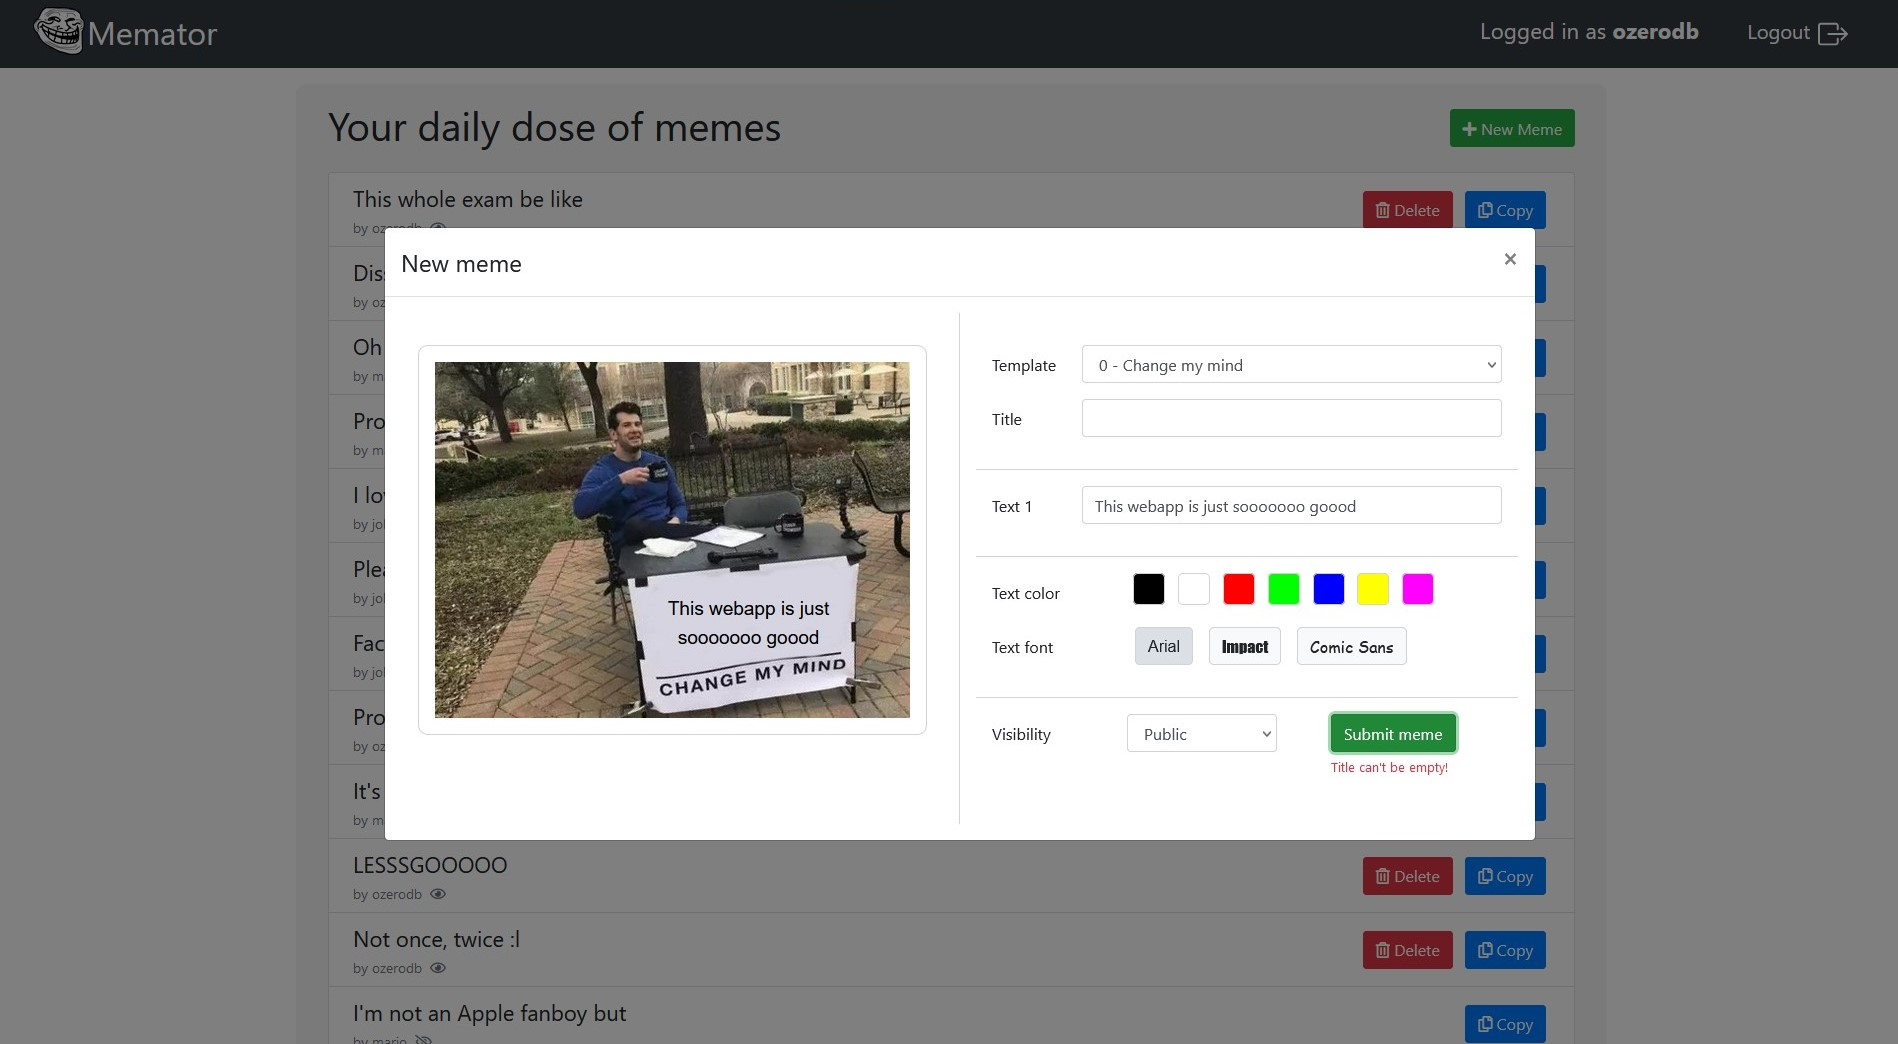
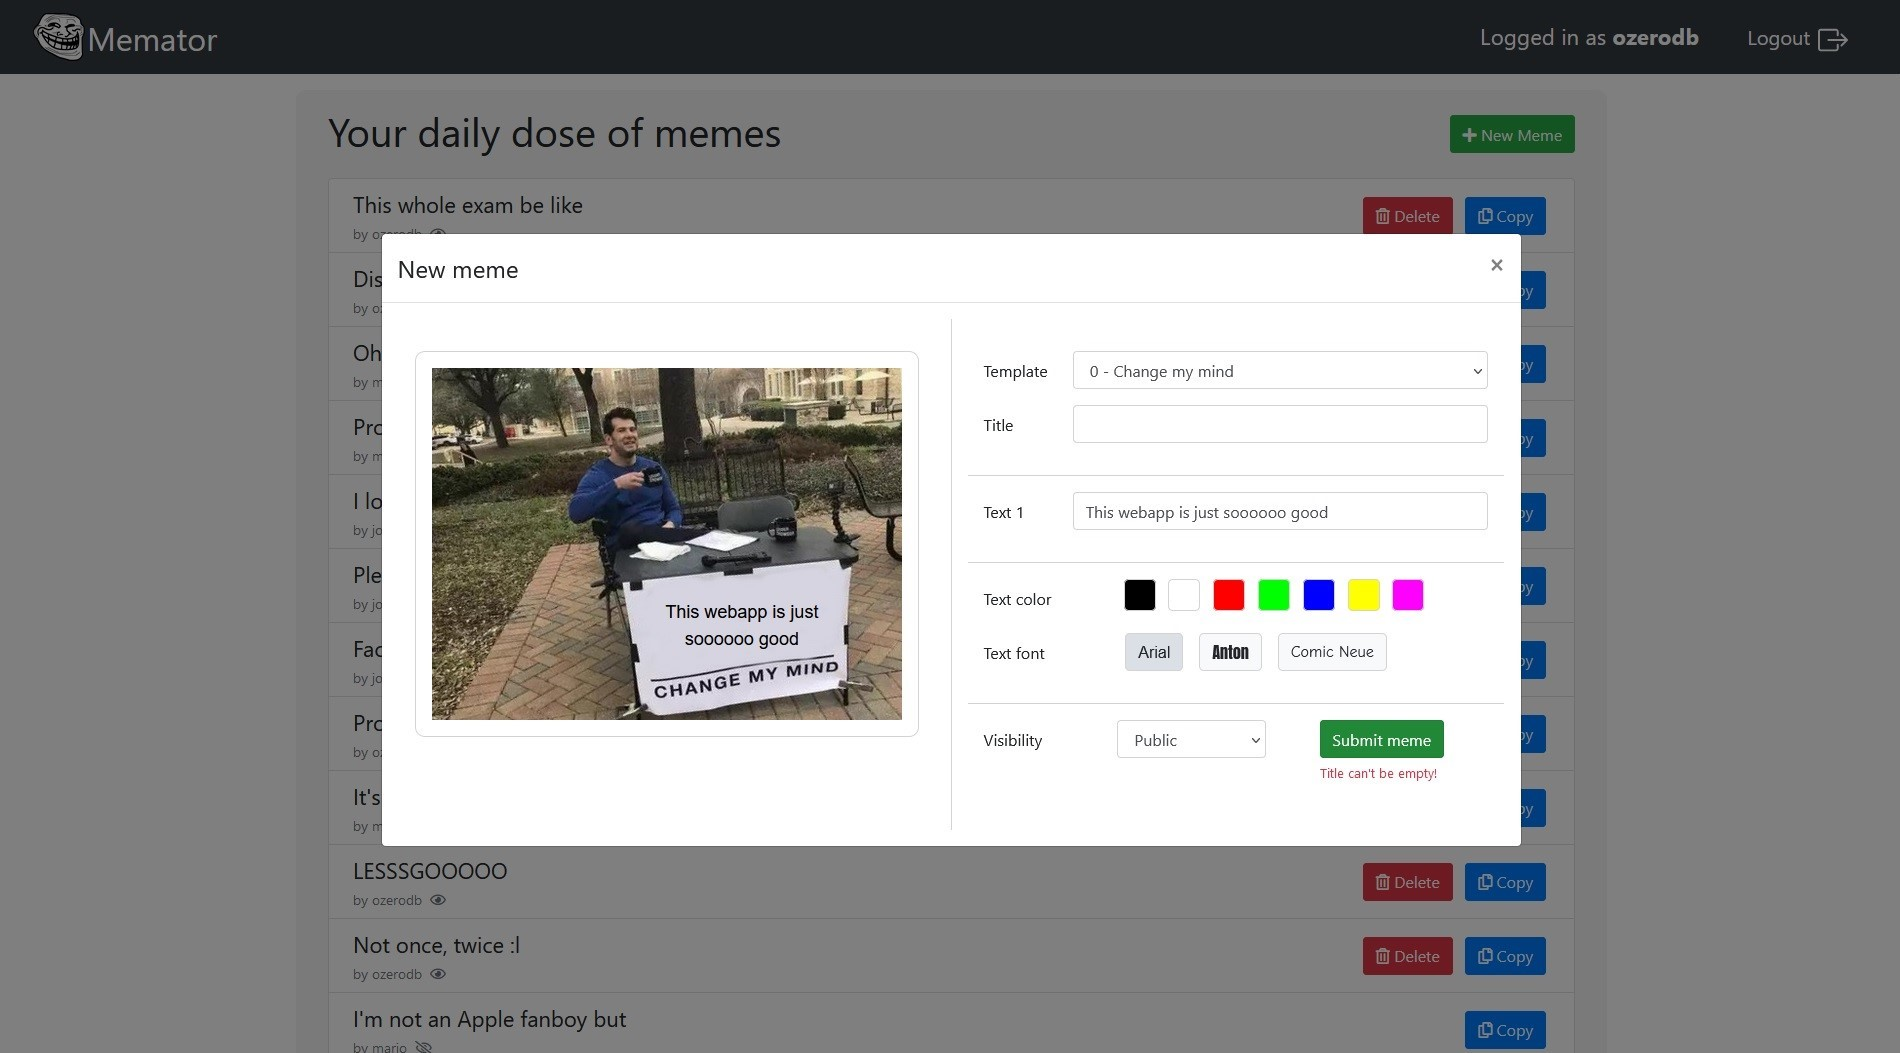
fix: now using google fonts

diff --git a/client/public/index.html b/client/public/index.html
@@ -1,21 +1,19 @@
 <!DOCTYPE html>
 <html lang="en">
-  <head>
-    <meta charset="utf-8" />
-    <link rel="icon" href="%PUBLIC_URL%/trollface.svg" />
-    <meta name="viewport" content="width=device-width, initial-scale=1" />
-    <meta name="theme-color" content="#000000" />
-    <meta
-      name="description"
-      content="Web site created using create-react-app"
-    />
-    <link rel="apple-touch-icon" href="%PUBLIC_URL%/logo192.png" />
-    <!--
+
+<head>
+  <meta charset="utf-8" />
+  <link rel="icon" href="%PUBLIC_URL%/trollface.svg" />
+  <meta name="viewport" content="width=device-width, initial-scale=1" />
+  <meta name="theme-color" content="#000000" />
+  <meta name="description" content="Web site created using create-react-app" />
+  <link rel="apple-touch-icon" href="%PUBLIC_URL%/logo192.png" />
+  <!--
       manifest.json provides metadata used when your web app is installed on a
       user's mobile device or desktop. See https://developers.google.com/web/fundamentals/web-app-manifest/
     -->
-    <link rel="manifest" href="%PUBLIC_URL%/manifest.json" />
-    <!--
+  <link rel="manifest" href="%PUBLIC_URL%/manifest.json" />
+  <!--
       Notice the use of %PUBLIC_URL% in the tags above.
       It will be replaced with the URL of the `public` folder during the build.
       Only files inside the `public` folder can be referenced from the HTML.
@@ -24,15 +22,19 @@
       work correctly both with client-side routing and a non-root public URL.
       Learn how to configure a non-root public URL by running `npm run build`.
     -->
-    <title>Memator</title>
-    <link rel="stylesheet" href="https://cdnjs.cloudflare.com/ajax/libs/font-awesome/5.15.3/css/all.min.css"
-        integrity="sha512-iBBXm8fW90+nuLcSKlbmrPcLa0OT92xO1BIsZ+ywDWZCvqsWgccV3gFoRBv0z+8dLJgyAHIhR35VZc2oM/gI1w=="
-        crossorigin="anonymous" />
-  </head>
-  <body>
-    <noscript>You need to enable JavaScript to run this app.</noscript>
-    <div id="root"></div>
-    <!--
+  <title>Memator</title>
+  <link rel="stylesheet" href="https://cdnjs.cloudflare.com/ajax/libs/font-awesome/5.15.3/css/all.min.css"
+    integrity="sha512-iBBXm8fW90+nuLcSKlbmrPcLa0OT92xO1BIsZ+ywDWZCvqsWgccV3gFoRBv0z+8dLJgyAHIhR35VZc2oM/gI1w=="
+    crossorigin="anonymous" />
+  <link rel="preconnect" href="https://fonts.googleapis.com">
+  <link rel="preconnect" href="https://fonts.gstatic.com" crossorigin>
+  <link href="https://fonts.googleapis.com/css2?family=Anton&family=Comic+Neue&display=swap" rel="stylesheet">
+</head>
+
+<body>
+  <noscript>You need to enable JavaScript to run this app.</noscript>
+  <div id="root"></div>
+  <!--
       This HTML file is a template.
       If you open it directly in the browser, you will see an empty page.
 
@@ -42,5 +44,6 @@
       To begin the development, run `npm start` or `yarn start`.
       To create a production bundle, use `npm run build` or `yarn build`.
     -->
-  </body>
+</body>
+
 </html>

diff --git a/client/src/components/meme.js b/client/src/components/meme.js
@@ -17,7 +17,7 @@ function Meme(props) {
                 <Image src={memeInfo.template} style={{ width: '100%' }} />
                 {memeInfo.texts.map((t, i) =>
                     <div key={i} style={{ position: 'absolute', left: t.x, top: t.y, textAlign: 'center', width: '100%', maxWidth: '32%' }}>
-                        <p style={{ position: 'relative', left: '-50%', fontSize: 19 }}>{t.text}</p>
+                        <p style={{ position: 'relative', left: '-50%', fontSize: 18 }}>{t.text}</p>
                     </div>
                 )}
             </div>
@@ -105,8 +105,8 @@ function MemeCreator(props) {
     const colors = ['#000000', '#FFFFFF', '#FF0000', '#00FF00', '#0000FF', '#FFFF00', '#FF00FF'];
     const fontFamilies = [
         { name: 'Arial', value: 'Arial, sans-serif' },
-        { name: 'Impact', value: 'Impact, fantasy' },
-        { name: 'Comic Sans', value: 'Comic Sans MS, Comic Sans, cursive' }
+        { name: 'Anton', value: 'Anton, sans-serif' },
+        { name: 'Comic Neue', value: 'Comic Neue, cursive' }
     ]
 
     const [memeInfo, setMemeInfo] = useState(prefill ?

diff --git a/README.md b/README.md
@@ -56,15 +56,13 @@
   - response body: _an array of memes_
 
     ```json
-    [
-    {"id":21,"title":"This whole exam be like","creatorId":1,"creatorName":"ozerodb","templateId":4,"isPublic":1,"text1":"a fun and interesting exam","text2":"an hecc lot of memes","text3":"","color":"#FFFFFF","fontFamily":"Comic Sans MS, Comic Sans, cursive"},
+    [{"id":21,"title":"This whole exam be like","creatorId":1,"creatorName":"ozerodb","templateId":4,"isPublic":1,"text1":"a fun and interesting exam","text2":"an hecc lot of memes","text3":"","color":"#FFFFFF","fontFamily":"Comic Neue, cursive"},
     {"id":23,"title":"Oh no..","creatorId":3,"creatorName":"mario","templateId":3,"isPublic":1,"text1":"The exam went poorly","text2":"You scored a 10","text3":"It's out of 30","color":"#FF0000","fontFamily":"Arial, sans-serif"},
-    {"id":25,"title":"I love them","creatorId":2,"creatorName":"john","templateId":0,"isPublic":1,"text1":"Inline conditionals aren't less readable","text2":"","text3":"","color":"#0000FF","fontFamily":"Impact, fantasy"},
-    {"id":26,"title":"Please don't do this to me","creatorId":2,"creatorName":"john","templateId":6,"isPublic":1,"text1":"accept a bad grade","text2":"","text3":"","color":"#FF00FF","fontFamily":"Comic Sans MS, Comic Sans, cursive"},
-    {"id":29,"title":"It's difficult being old","creatorId":3,"creatorName":"mario","templateId":6,"isPublic":1,"text1":"stop doing all-nighters before every exam","text2":"","text3":"","color":"#FF0000","fontFamily":"Comic Sans MS, Comic Sans, cursive"},
+    {"id":25,"title":"I love them","creatorId":2,"creatorName":"john","templateId":0,"isPublic":1,"text1":"Inline conditionals aren't less readable","text2":"","text3":"","color":"#0000FF","fontFamily":"Anton, sans-serif"},
+    {"id":26,"title":"Please don't do this to me","creatorId":2,"creatorName":"john","templateId":6,"isPublic":1,"text1":"accept a bad grade","text2":"","text3":"","color":"#FF00FF","fontFamily":"Comic Neue, cursive"},
+    {"id":29,"title":"It's difficult being old","creatorId":3,"creatorName":"mario","templateId":6,"isPublic":1,"text1":"stop doing all-nighters before every exam","text2":"","text3":"","color":"#FF0000","fontFamily":"Comic Neue, cursive"},
     {"id":30,"title":"LESSSGOOOOO","creatorId":1,"creatorName":"ozerodb","templateId":1,"isPublic":1,"text1":"It's coming home","text2":"It's coming Rome","text3":"","color":"#000000","fontFamily":"Arial, sans-serif"},
-    {"id":32,"title":"Not once, twice :l","creatorId":1,"creatorName":"ozerodb","templateId":3,"isPublic":1,"text1":"you have an exam tomorrow","text2":"you studied a lot and you feel confident in your preparation","text3":"you forgot to book for it","color":"#000000","fontFamily":"Arial, sans-serif"}
-    ]
+    {"id":32,"title":"Not once, twice :l","creatorId":1,"creatorName":"ozerodb","templateId":3,"isPublic":1,"text1":"you have an exam tomorrow","text2":"you studied a lot and you feel confident in your preparation","text3":"you forgot to book for it","color":"#000000","fontFamily":"Arial, sans-serif"}]
     ```
 
 - DELETE `/api/memes/:id`
@@ -75,9 +73,9 @@
   - request body: _a meme object_
 
   ```json
-  {"title":"Example","creatorId":1,"creatorName":"ozerodb","templateId":0,"isPublic":1,"text1":"You can't change my mind","text2":"","text3":"","color":"#000000","fontFamily":"Impact, fantasy"},
+  {"title":"Example","creatorId":1,"creatorName":"ozerodb","templateId":0,"isPublic":1,"text1":"You can't change my mind","text2":"","text3":"","color":"#000000","fontFamily":"Anton, sans-serif"},
   ```
-  
+
   - response: `200 OK` or `401 Unauthorized` or `500 Internal Server Error`
   - response body: _None_
 
